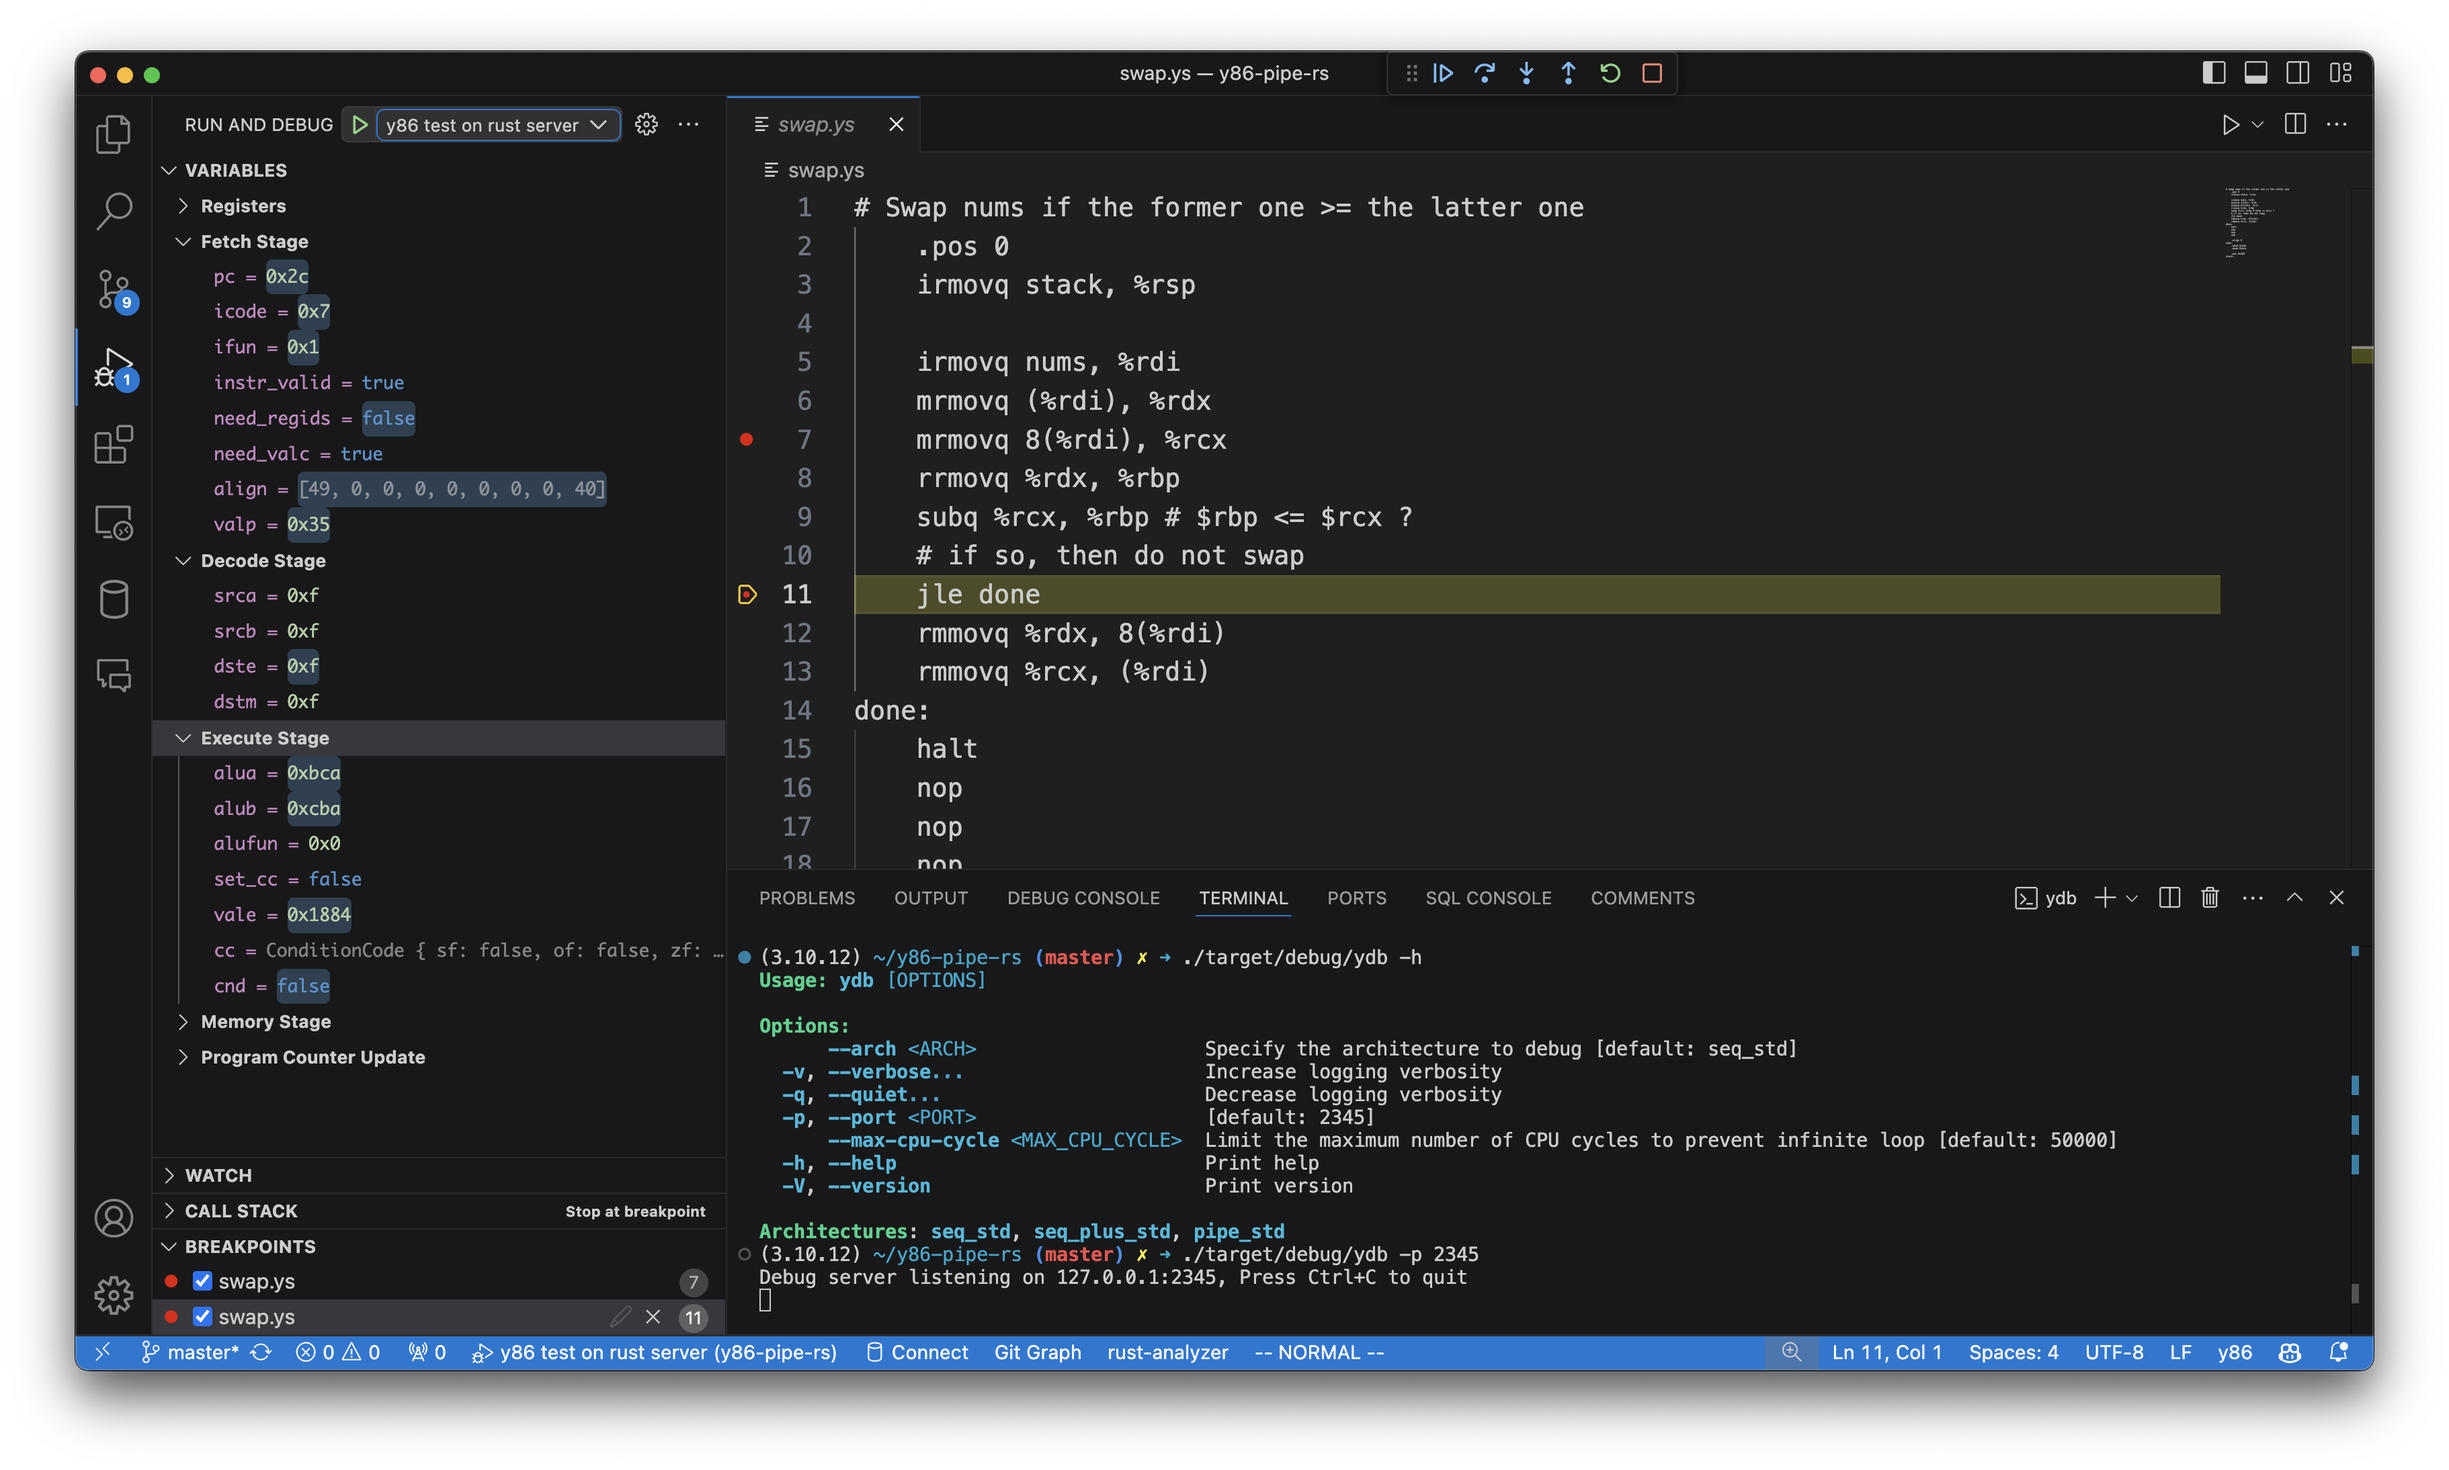
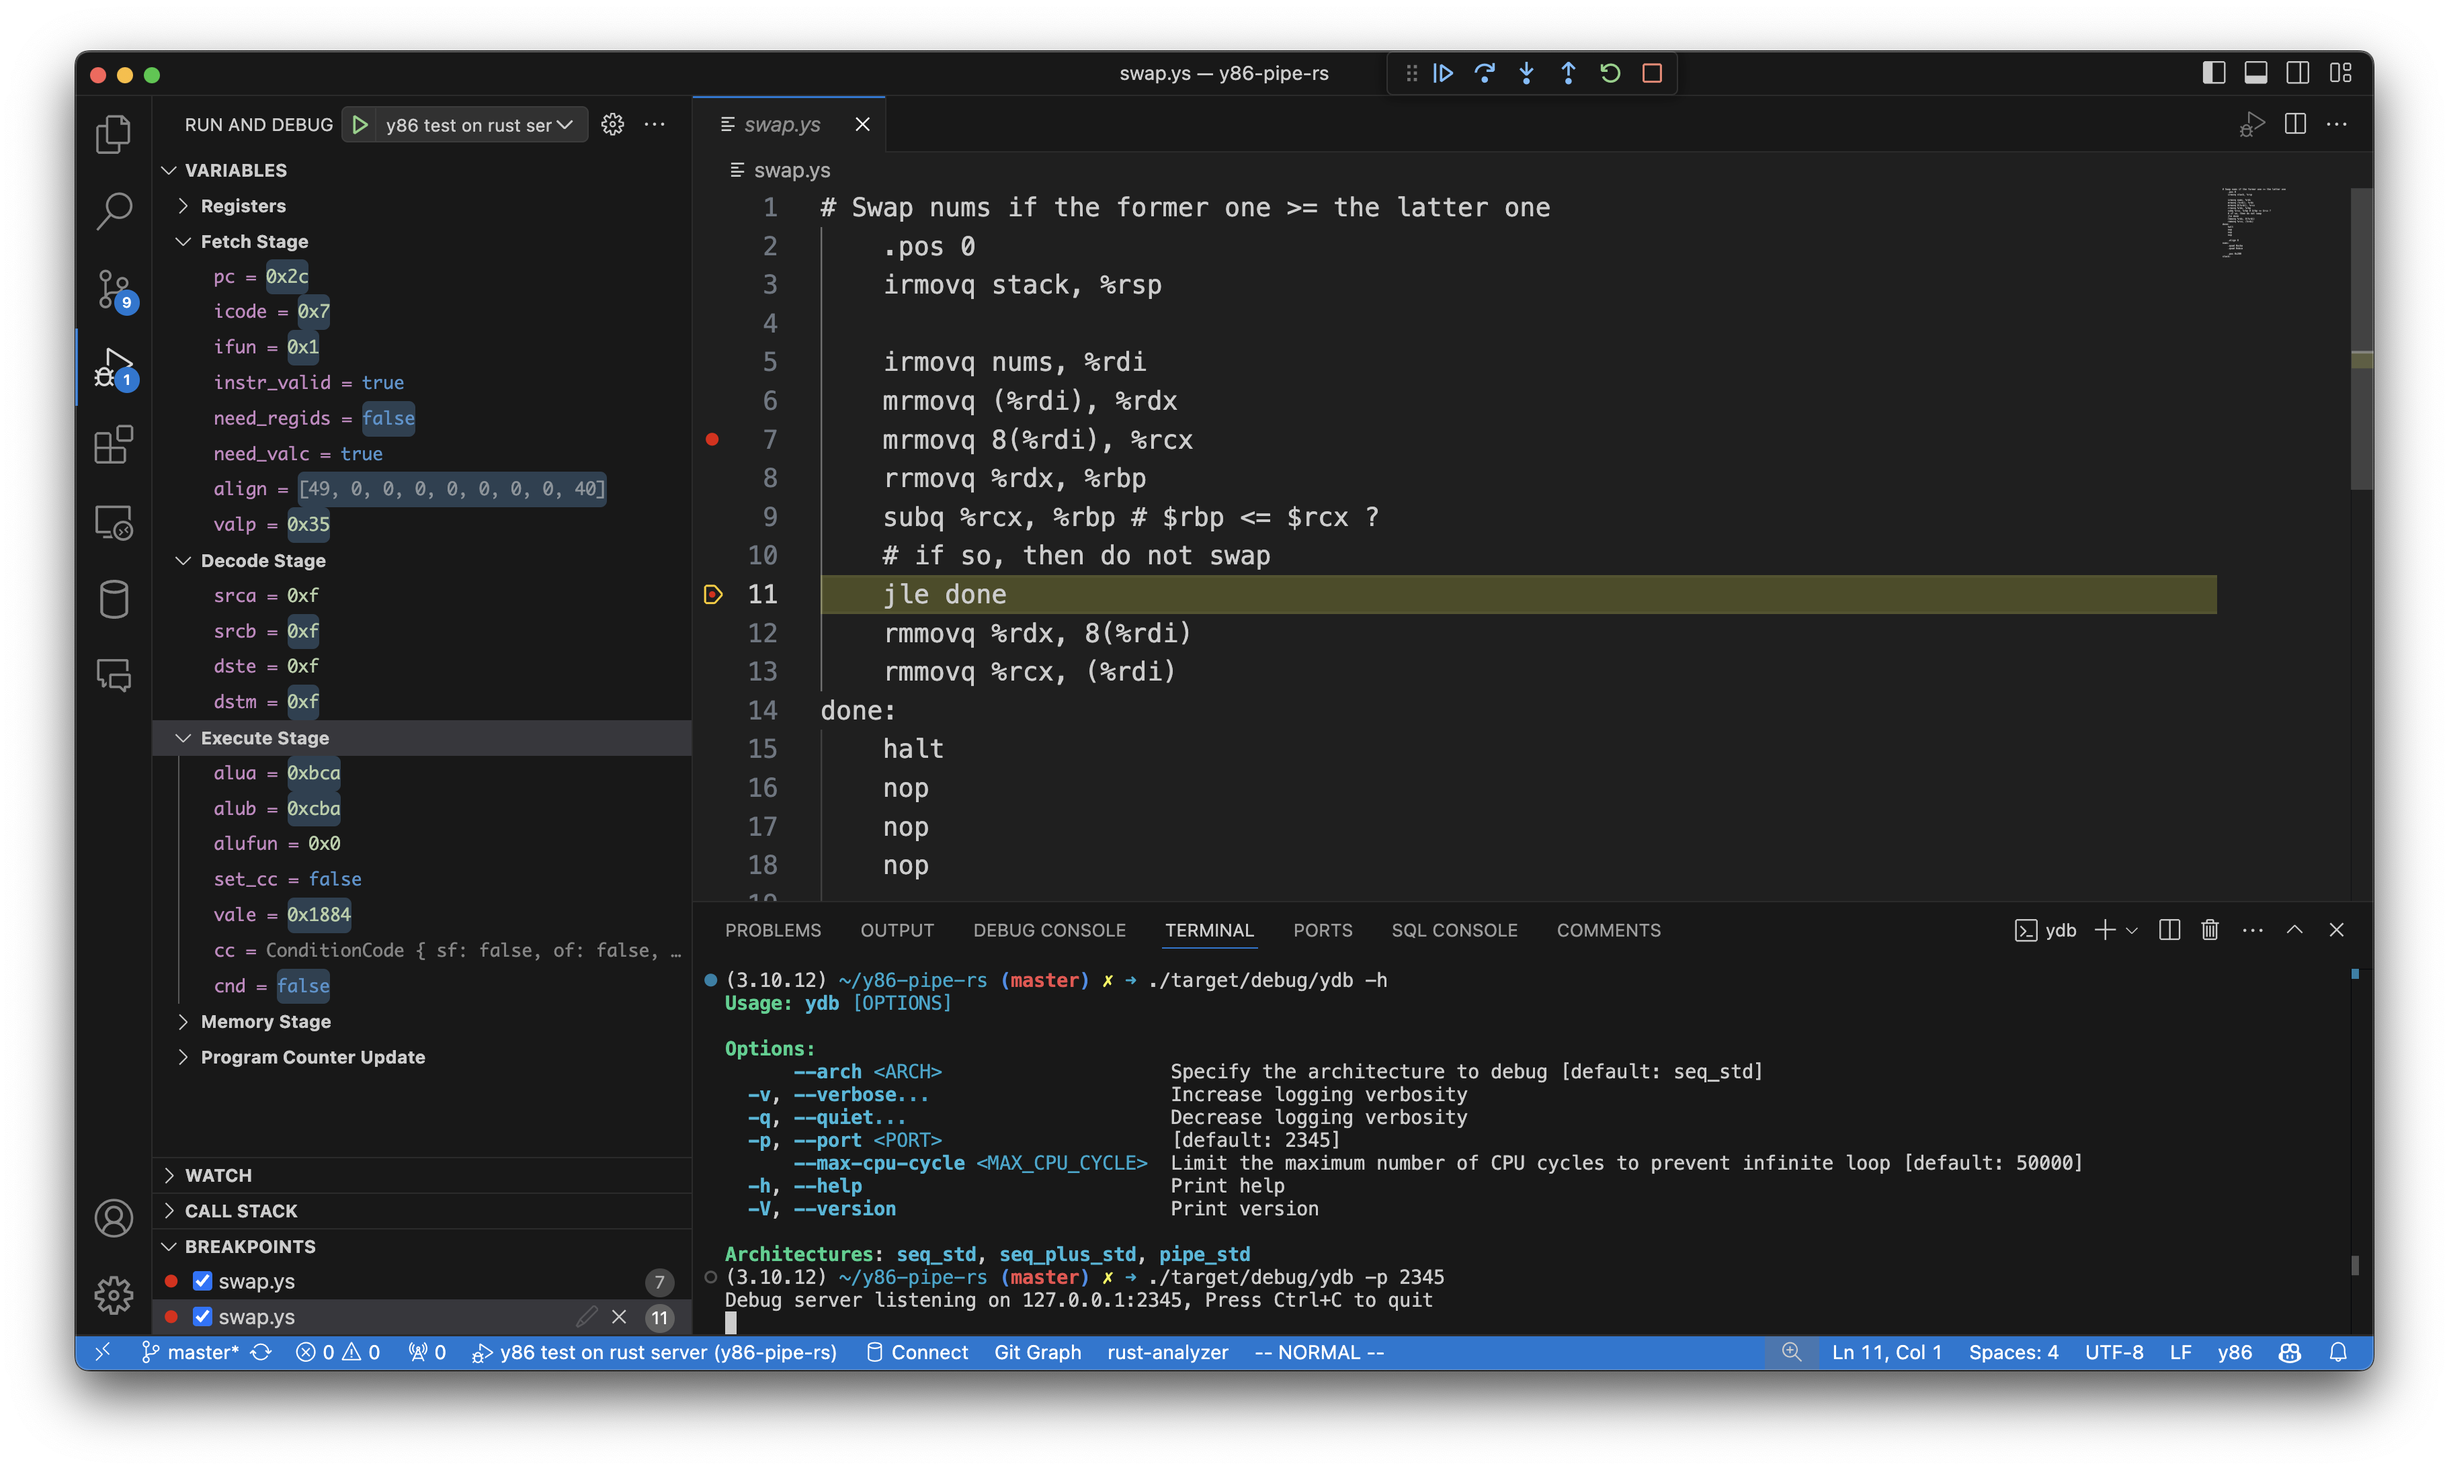
feat: register debug command

diff --git a/src/extension.ts b/src/extension.ts
@@ -6,21 +6,40 @@ import * as vscode from 'vscode';
 // Your extension is activated the very first time the command is executed
 export function activate(context: vscode.ExtensionContext) {
 
-	// Use the console to output diagnostic information (console.log) and errors (console.error)
-	// This line of code will only be executed once when your extension is activated
-	console.log('Congratulations, your extension "y86-debugger" is now active!');
+    // Use the console to output diagnostic information (console.log) and errors (console.error)
+    // This line of code will only be executed once when your extension is activated
+    console.log('Congratulations, your extension "y86-debugger" is now active!');
 
-	// The command has been defined in the package.json file
-	// Now provide the implementation of the command with registerCommand
-	// The commandId parameter must match the command field in package.json
-	const disposable = vscode.commands.registerCommand('y86-debugger.helloWorld', () => {
-		// The code you place here will be executed every time your command is executed
-		// Display a message box to the user
-		vscode.window.showInformationMessage('Hello World from y86-debugger!');
-	});
+    // The command has been defined in the package.json file
+    // Now provide the implementation of the command with registerCommand
+    // The commandId parameter must match the command field in package.json
+    const disposableHelloWorld = vscode.commands.registerCommand('y86-debugger.helloWorld', () => {
+        // The code you place here will be executed every time your command is executed
+        // Display a message box to the user
+        vscode.window.showInformationMessage('Hello World from y86-debugger!');
+    });
 
-	context.subscriptions.push(disposable);
+    context.subscriptions.push(disposableHelloWorld);
+
+    const disp = vscode.commands.registerCommand('extension.y86-debug.debugEditorContents', (resource: vscode.Uri) => {
+        let targetResource = resource;
+        if (!targetResource && vscode.window.activeTextEditor) {
+            targetResource = vscode.window.activeTextEditor.document.uri;
+        }
+        if (targetResource) {
+            vscode.debug.startDebugging(undefined, {
+                type: 'y86',
+                name: 'Debug File',
+                request: 'launch',
+                program: targetResource.fsPath,
+                stopOnEntry: true,
+                debugServer: 2345
+            });
+        }
+    });
+
+    context.subscriptions.push(disp);
 }
 
 // This method is called when your extension is deactivated
-export function deactivate() {}
+export function deactivate() { }

diff --git a/README.md b/README.md
@@ -2,34 +2,7 @@
 
 This debugger extension is specifically designed for [y86-pipe-rs](https://github.com/sshwy/y86-pipe-rs)
 
-## Features
-
-Describe specific features of your extension including screenshots of your extension in action. Image paths are relative to this README file.
-
-For example if there is an image subfolder under your extension project workspace:
-
-\!\[feature X\]\(images/feature-x.png\)
-
-> Tip: Many popular extensions utilize animations. This is an excellent way to show off your extension! We recommend short, focused animations that are easy to follow.
-
 ## Getting Started
-
-After install this extension, create a new file `.vscode/launch.json` in your workspace with the following content:
-
-```json
-{
-    "version": "0.2.0",
-    "configurations": [
-        {
-			"type": "y86",
-			"request": "launch",
-			"name": "y86 test on rust server",
-			"program": "${workspaceFolder}/${fileBasename}",
-			"debugServer": 2345
-		}
-    ]
-}
-```
 
 Before debugging, you need to build the debug server by running `cargo build`. You can execute `./target/debug/ydb` for help.
 
@@ -37,6 +10,6 @@ Then open the y86 file you want to debug and set some breakpoints.
 
 Basically you can execute `./target/debug/ydb -p 2345` to start the debug server. You may set different architectures by `--arch` option.
 
-Finally, goto "Run and Debug" tab, select "y86 test on rust server" and click the play button to start debugging. The debugger should stop at the entry of your program.
+Finally, click the debug icon at the right side of the menu bar to start debugging. The debugger should stop at the entry of your program.
 
 ![](images/screenshot.png)
